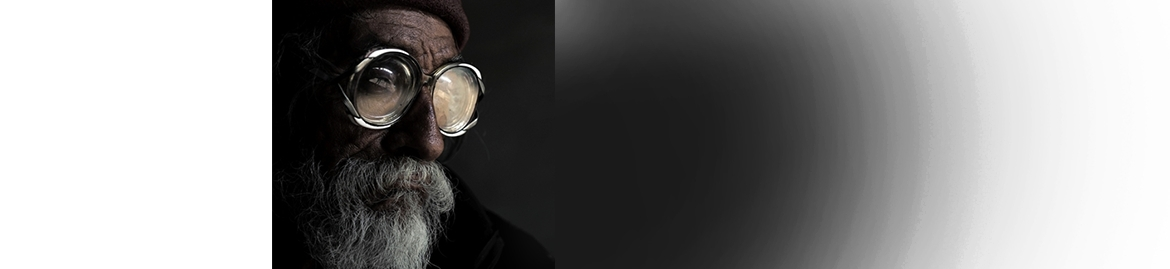
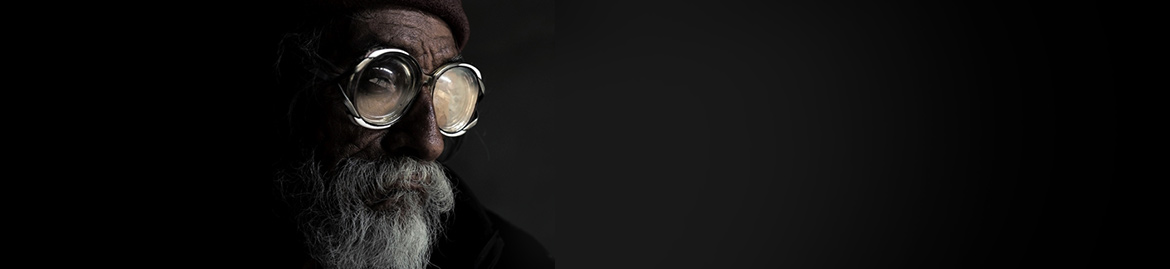
Li

diff --git a/public/css/main.css b/public/css/main.css
@@ -352,6 +352,10 @@ table {
   src: url("../fonts/futura-medium/FuturaMedium.woff2"), url("../fonts/futura-medium/FuturaMedium.woff"); }
 
 @font-face {
+  font-family: 'FuturaLight';
+  src: url("../fonts/futura-light/FuturaLight.woff2"), url("../fonts/futura-light/FuturaLight.woff"); }
+
+@font-face {
   font-family: 'Gotham';
   src: url("../fonts/gotham/gotham.woff2"), url("../fonts/gotham/gotham.woff"); }
 
@@ -363,11 +367,15 @@ table {
   font-family: 'Lobster';
   src: url("../fonts/lobster/lobster.woff2"), url("../fonts/lobster/lobster.woff"); }
 
+*, *:before, *:after {
+  box-sizing: border-box; }
+
 .navigation {
   padding: 0; }
 
 .navigation__wrapper {
-  box-shadow: 0 8px 27px rgba(172, 190, 213, 0.26); }
+  box-shadow: 0 8px 27px rgba(172, 190, 213, 0.26);
+  padding: 0; }
 
 .navigation__icon--wrap {
   position: relative;
@@ -470,7 +478,46 @@ table {
         border-right: 1px solid  #dce0e4;
         padding-right: 34px; }
 
-.background__main-one .background__main-img--one {
-  height: 272px; }
+.background__main-one {
+  padding: 57px 0 0 0;
+  position: relative; }
+  .background__main-one .background__main-img--one {
+    height: 272px;
+    padding: 0;
+    background: url("../img/layer1.jpg");
+    background-size: cover;
+    position: relative; }
+
+.background__main-txt--one {
+  position: absolute;
+  top: 60px;
+  right: -75px;
+  color: #b6977b;
+  font-family: 'FuturaLight';
+  font-size: 145px;
+  font-weight: 100;
+  letter-spacing: 15px; }
+
+.box__wrap {
+  padding: 0; }
+  .box__wrap .box__wrap-one {
+    height: 210px;
+    background: #000;
+    padding: 0;
+    margin-right: 30px; }
+  .box__wrap .box__wrap-two {
+    height: 210px;
+    background: #000;
+    padding: 0;
+    margin-right: 30px; }
+  .box__wrap .box__wrap-three {
+    height: 210px;
+    background: #000;
+    padding: 0;
+    margin-right: 30px; }
+  .box__wrap .box__wrap-four {
+    height: 210px;
+    background: #000;
+    padding: 0; }
 
 /*# sourceMappingURL=main.css.map */

diff --git a/public/scss/main.scss b/public/scss/main.scss
@@ -7,14 +7,18 @@
 @import 'utilities/mixins';
 @import 'utilities/variables';
 
+*,*:before,*:after {box-sizing: border-box; }
+
 .navigation {
   padding: 0;
 }
 
 .navigation__wrapper {
   box-shadow: 0 8px 27px rgba(172, 190, 213, 0.26);
+  padding: 0;
 
 }
+
 .navigation__icon--wrap {
   position: relative;
   width: 55px;
@@ -96,6 +100,7 @@
   }
 }
 
+
 .header {
   text-align: center;
   border-bottom: 2px solid #000000;
@@ -144,13 +149,63 @@
   }
 }
 
+
 .background__main-one {
+  padding: 57px 0 0 0;
+  position: relative;
 
   .background__main-img--one {
-     height: 272px;
+    height: 272px;
+    padding: 0;
+    background: url("../img/layer1.jpg");
+    background-size: cover;
+    position: relative;
+  }
 
+}
+  
+.background__main-txt--one {
+  position: absolute;
+  top: 60px;
+  right: -75px;
+  color: #b6977b;
+  font-family: 'FuturaLight';
+  font-size: 145px;
+  font-weight: 100;
+  letter-spacing: 15px;
+}
+
+.box__wrap {
+  padding: 0;
+  .box__wrap-one {
+    height: 210px;
+    background: #000;
+    padding: 0;
+    margin-right: 30px;
+  }
+
+  .box__wrap-two {
+    height: 210px;
+    background: #000;
+    padding: 0;
+    margin-right: 30px;
+  }
+
+  .box__wrap-three {
+    height: 210px;
+    background: #000;
+    padding: 0;
+    margin-right: 30px;
+  }
+
+  .box__wrap-four {
+    height: 210px;
+    background: #000;
+    padding: 0;
   }
 }
+
+
 
 
 

diff --git a/index.html b/index.html
@@ -54,14 +54,22 @@
     </div>
 </div>
 
-<div class="grid background__main-one">
-    <div class="background__main-img--one col-1-1 ">
 
+<div class="grid background__main-one">
+    <div class="background__main-img--one col-1-1">
+      <h1 class="background__main-txt--one">Banner</h1>
     </div>
-    <h1 class="backgro
-    main-txt--one">Banner</h1>
 </div>
 
+<div class="grid box-wrappers">
+    <div class="box__wrap ">
+        <div class="box__wrap-one col-1-5"></div>
+        <div class="box__wrap-two col-1-5"></div>
+        <div class="box__wrap-three col-1-5"></div>
+        <div class="box__wrap-four col-1-5"></div>
+    </div>
+
+</div>
 </body>
 </html>
 

diff --git a/public/scss/base/_fonts.scss b/public/scss/base/_fonts.scss
@@ -11,6 +11,12 @@
 }
 
 @font-face {
+  font-family: 'FuturaLight';
+  src: url('../fonts/futura-light/FuturaLight.woff2'),
+       url('../fonts/futura-light/FuturaLight.woff');
+}
+
+@font-face {
   font-family: 'Gotham';
   src: url('../fonts/gotham/gotham.woff2'),
        url('../fonts/gotham/gotham.woff');
